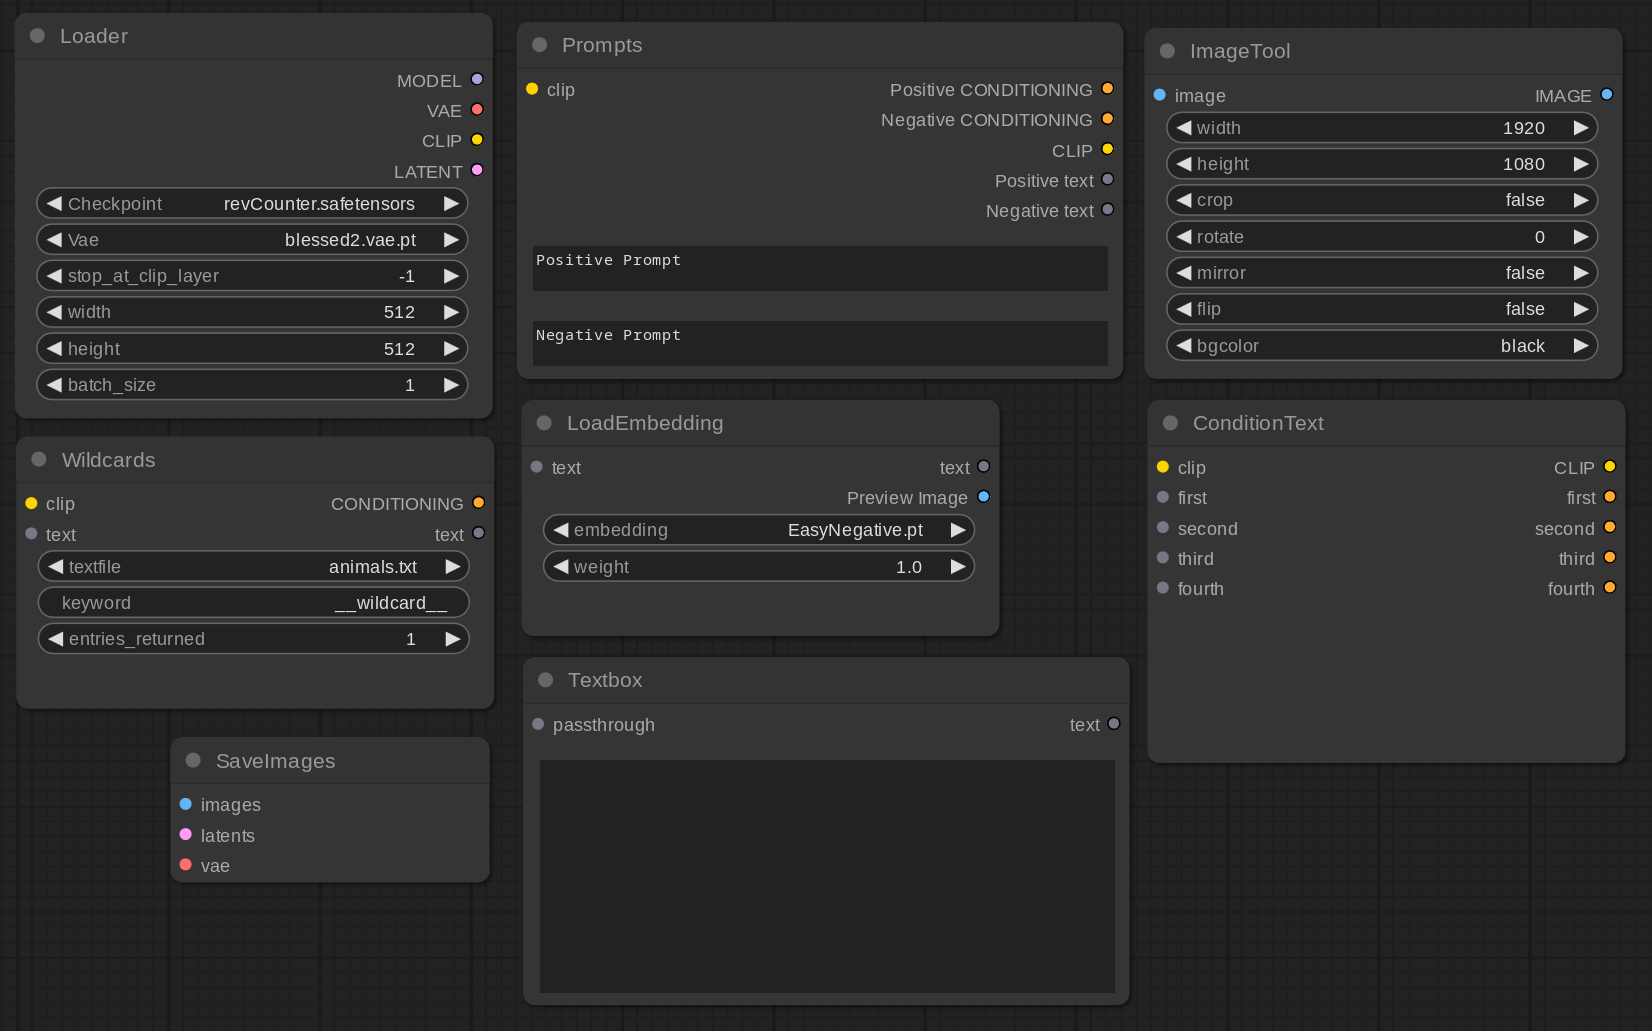
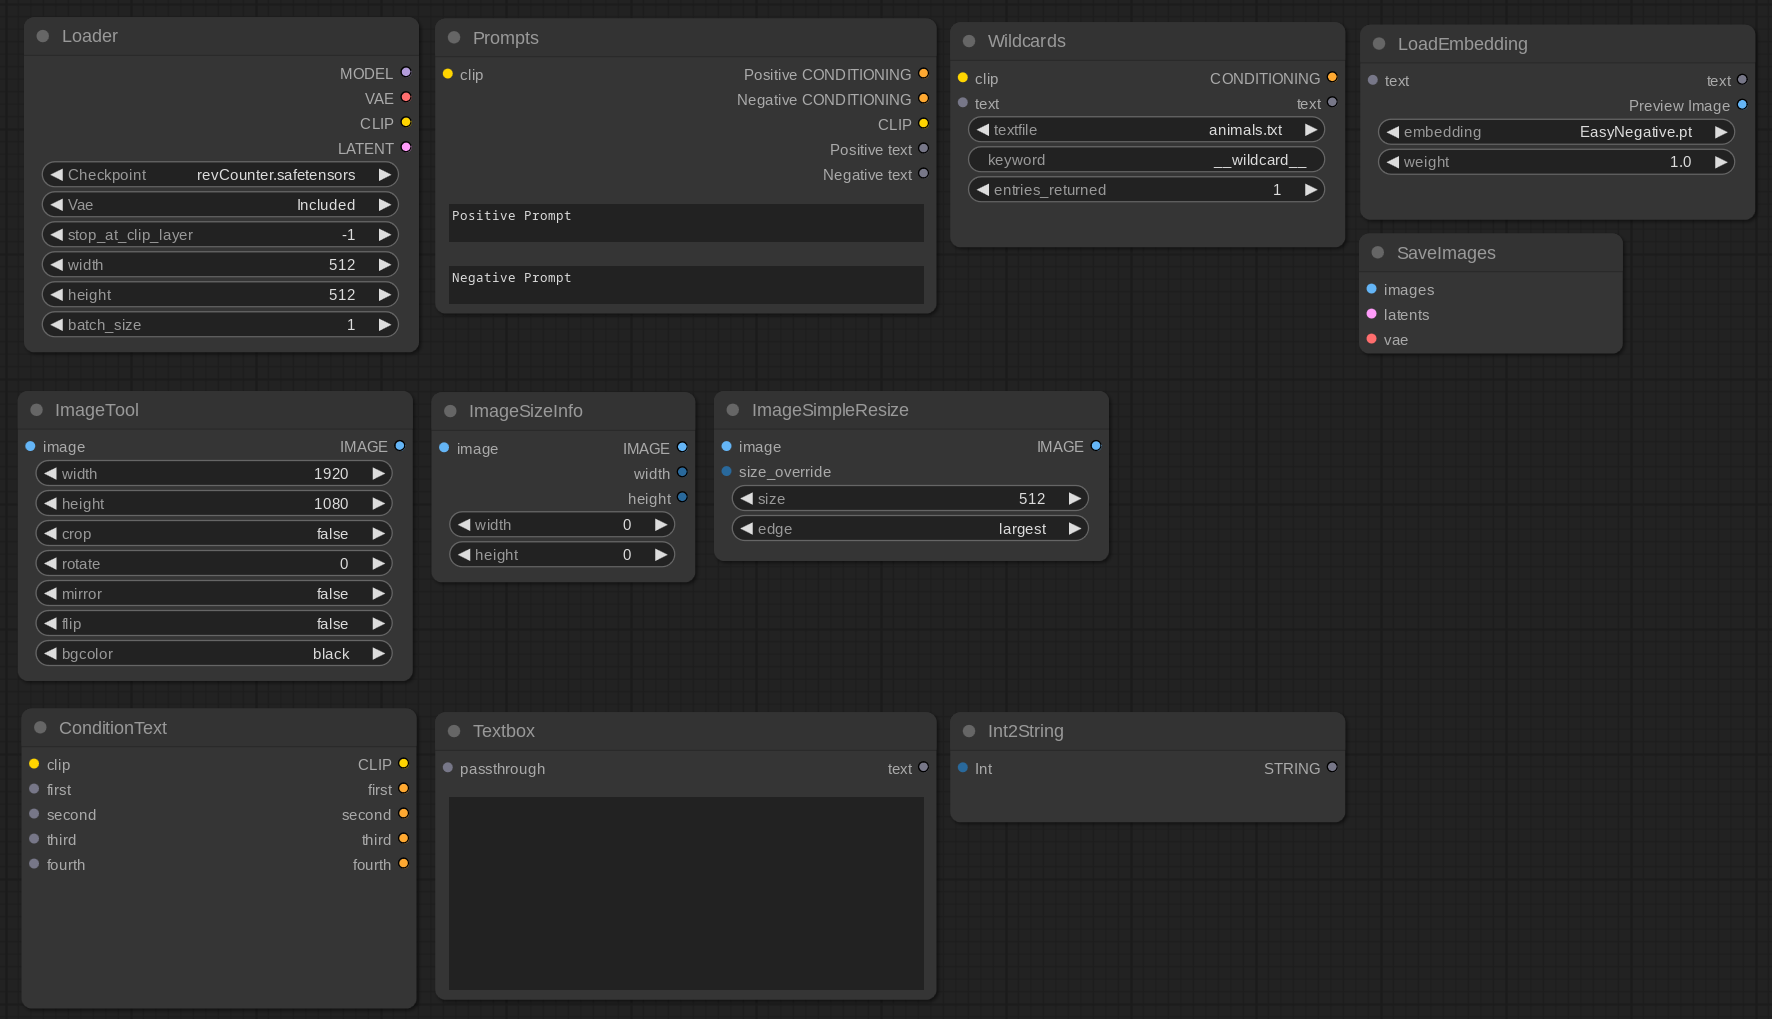
New nodes

diff --git a/js/chibi_nodes.js b/js/chibi_nodes.js
@@ -25,5 +25,34 @@ app.registerExtension({
         this.onResize?.(this.size);
       };
     }
+    if (nodeData.name === "ImageSizeInfo") {
+      const onNodeCreated = nodeType.prototype.onNodeCreated;
+      nodeType.prototype.onNodeCreated = function () {
+        const r = onNodeCreated?.apply(this, arguments);
+        const iw = ComfyWidgets["INT"](this, "width", ["INT", {}], app).widget;
+        const ih = ComfyWidgets["INT"](this, "height", ["INT", {}], app).widget;
+        return r;
+      };
+
+      const onExecuted = nodeType.prototype.onExecuted;
+      nodeType.prototype.onExecuted = function (message) {
+        onExecuted?.apply(this, arguments);
+
+        for (const widget of this.widgets) {
+          // console.log(widget.type);
+          // console.log(widget.name);
+          if (widget.name == "width") {
+            console.log(message);
+            widget.value = message.width[0];
+          }
+          if (widget.name == "height") {
+            console.log(message);
+            widget.value = message.height[0];
+          }
+        }
+
+        this.onResize?.(this.size);
+      };
+    }
   },
 });

diff --git a/chibi_nodes.py b/chibi_nodes.py
@@ -122,11 +122,16 @@ class ImageTool:
 
     RETURN_TYPES = ("IMAGE",)
     FUNCTION = "imagetools"
-    CATEGORY = "Chibi-Nodes"
+    CATEGORY = "Chibi-Nodes/Image"
 
     def imagetools(self, image, height, width, crop, rotate, mirror, flip, bgcolor):
         image = Image.fromarray(np.clip(255. * image[0].cpu().numpy(),0,255).astype(np.uint8))
         image = image.rotate(rotate,fillcolor=bgcolor)
+
+        #black and white
+        #corrections?
+        #generate mask from background color (crop, rotate)
+
         if mirror:
             image = ImageOps.mirror(image)
         
@@ -142,7 +147,7 @@ class ImageTool:
             image = image.crop((left, top, right, bottom))            
             
         else:
-            image = image.resize((width,height), Image.Resampling.LANCZOS)
+            image = image.resize((width,height), Image.LANCZOS)
 
         image = ImageOps.exif_transpose(image)
         image = image.convert("RGB")
@@ -286,7 +291,7 @@ class ConditionText:
     RETURN_TYPES = ("CLIP","CONDITIONING","CONDITIONING","CONDITIONING","CONDITIONING",)
     RETURN_NAMES = ("CLIP","first","second","third","fourth",)
     FUNCTION = "conditiontext"
-    CATEGORY = "Chibi-Nodes"
+    CATEGORY = "Chibi-Nodes/Text"
 
     def conditiontext(self, clip, first='', second='', third='', fourth='', ):
         emptystring = ""
@@ -433,7 +438,7 @@ class Textbox:
     RETURN_NAMES = ("text",)
     OUTPUT_NODE = True
     FUNCTION = "textbox"
-    CATEGORY = "Chibi-Nodes"
+    CATEGORY = "Chibi-Nodes/Text"
 
     def textbox(self,text="",passthrough=""):
         if passthrough != "":
@@ -442,7 +447,132 @@ class Textbox:
         else:
             return (text,)
 
+class ImageSizeInfo:
+    def __init__(self):
+        pass
 
+    @classmethod
+    def INPUT_TYPES(s):
+        return {
+            "required":{
+                "image": ("IMAGE",)
+            },
+            "hidden":{
+                "width": ("INT",),
+                "height": ("INT",),
+            }}
+    RETURN_TYPES = ("IMAGE","INT","INT",)
+    RETURN_NAMES = ("IMAGE","width","height",)
+    OUTPUT_NODE = True
+    FUNCTION = "imagesizeinfo"
+    CATEGORY = "Chibi-Nodes/Image"
+
+    def imagesizeinfo(self, image, width=0, height=0):
+        shape = image.shape
+        width = shape[2]
+        height = shape[1]
+        return {"ui": {"width": [width], "height": [height]},"result": (image,width,height,)}
+
+
+class ImageSimpleResize:
+    def __init__(self):
+        pass
+
+    @classmethod
+    def INPUT_TYPES(s):
+        return {
+            "required":{
+                "image": ("IMAGE",),
+                "size": ("INT", {"default": 512, "min": 16, "max": MAX_RESOLUTION, "step": 1}),
+                "edge":(["largest","smallest","all","width","height"],),
+            },
+            "optional":{
+                "size_override":("INT",{"forceInput": True})
+            }}
+    RETURN_TYPES = ("IMAGE",)
+    OUTPUT_NODE = False
+    FUNCTION = "imagesimpleresize"
+    CATEGORY = "Chibi-Nodes/Image"
+
+    def imagesimpleresize(self, image, size, edge, size_override=None):
+        if size_override:
+            size = size_override
+
+        width = image.shape[2]
+        height = image.shape[1]
+        ratio = height / width
+        image = Image.fromarray(np.clip(255. * image[0].cpu().numpy(),0,255).astype(np.uint8))
+
+        if edge == "largest":
+            if width > height:
+                if size < width:
+                    image = ImageOps.contain(image, (size,MAX_RESOLUTION), Image.LANCZOS)
+                else:
+                    image = image.resize((round(size),round(size*ratio)), Image.LANCZOS)
+            if width < height:
+                if size < height:
+                    image = ImageOps.contain(image, (MAX_RESOLUTION,size), Image.LANCZOS)
+                else:
+                    image = image.resize((round(size/ratio),round(size)), Image.LANCZOS)
+            if width == height:
+                if size < width:
+                    image = ImageOps.contain(image, (size,size), Image.LANCZOS)
+                else:
+                    image = image.resize((round(size),round(size)), Image.LANCZOS)
+
+
+        if edge == "smallest":
+            if width > height:
+                if size < height:
+                    image = ImageOps.contain(image, (MAX_RESOLUTION,size), Image.LANCZOS)
+                else:
+                    image = image.resize((round(size/ratio),round(size)), Image.LANCZOS)
+            if width < height:
+                if size < width:
+                    image = ImageOps.contain(image, (MAX_RESOLUTION,size), Image.LANCZOS)
+                else:
+                    image = image.resize((round(size),round(size*ratio)), Image.LANCZOS)
+            if width == height:
+                if size < width:
+                    image = ImageOps.contain(image, (size,size), Image.LANCZOS)
+                else:
+                    image = image.resize((round(size),round(size)), Image.LANCZOS)
+
+        if edge == "all":
+            image = image.resize((round(size),round(size)), Image.LANCZOS)
+
+        if edge == "width":
+            image = image.resize((round(size),round(height)), Image.LANCZOS)
+
+        if edge == "height":
+            image = image.resize((round(width),round(size)), Image.LANCZOS)
+
+
+        image = ImageOps.exif_transpose(image)
+        image = image.convert("RGB")
+        image = np.array(image).astype(np.float32) / 255.0
+        image = torch.from_numpy(image)[None,]
+        
+        return(image,)
+    
+class Int2String:
+    def __init__(self):
+        pass
+
+    @classmethod
+    def INPUT_TYPES(s):
+        return {
+            "required":{
+                "Int":("INT",{"forceInput": True})
+            },}
+    RETURN_TYPES = ("STRING",)
+    OUTPUT_NODE = False
+    FUNCTION = "int2string"
+    CATEGORY = "Chibi-Nodes/Text"
+
+    def int2string(self, Int):
+        print(Int)
+        return(str(Int),)
 
 
 NODE_CLASS_MAPPINGS = {
@@ -454,5 +584,8 @@ NODE_CLASS_MAPPINGS = {
     "ConditionText": ConditionText, 
     "SaveImages":SaveImages,
     "Textbox":Textbox,
+    "ImageSizeInfo" : ImageSizeInfo,
+    "ImageSimpleResize" : ImageSimpleResize,
+    "Int2String": Int2String,
 
 }

diff --git a/README.md b/README.md
@@ -14,45 +14,61 @@ Be aware, These are all very experimental right now so may have some bugs or iss
 
 A more comprehensive Checkpoint, Vae loader with afew other features such as clip skip value selector and initial empty latent image generation
 
-
 ### Prompts
 
 Combined Positive and Negative Prompts, Just to save some room.
-
 
 ### ImageTool (wip)
 
 Uses PIL for some simple image manipulation. Won't do batch images yet, work in progress.
 
-
 ### Wildcards
 
-replaces a keyword from input text if given with a random line from a text file, if no input is given it will output just the random line
+Replaces a keyword from input text if given with a random line from a text file, if no input is given it will output just the random line
 
-can now return multiple random lines from the same file if desired, but be aware you can get doubles
+Can now return multiple random lines from the same file if desired, but be aware you can get doubles
 
 wildcards files (some of which i've included which also need some more work) are stored under the extras/chibi-wildcards directory.
-
 
 ### LoadEmbedding
 
 Appends the embedding text to the end of the input text ", (embedding:filename.pt:weight) "
 
-
 ### ConditionText
 
 4 in 4 out, text to conditioning.
 
-
 ### SaveImages (wip)
 
-VaeDecode and SaveImage mixed together. saves to the normal output directory but uses a unix time stamp as the filename eg. 1698462650_001_.png
-
+VaeDecode and SaveImage mixed together. saves to the normal output directory but uses a unix time stamp as the filename eg. 1698462650*001*.png
 
 ### Textbox
 
-A simple text box, if passthrough text is supplied it will update the textbox contents and also send it forward. 
+A simple text box, if passthrough text is supplied it will update the textbox contents and also send it forward.
 
+    "ImageSizeInfo" : ImageSizeInfo,
+    "ImageSimpleResize" : ImageSimpleResize,
+    "Int2String": Int2String,
+
+### ImageSizeInfo
+
+Displays the resolution of the input image, and sends it along as well as two int values for the dimensions.
+
+### ImageSimpleResize
+
+A quick way to make a large image into a size your GPU can handle.
+
+largest sets the biggest dimension to the set size and keeps your aspect ratio
+
+smallest sets the lowest dimension to the set size and keeps your aspect ratio
+
+all sets all dimensions to the set size
+
+height and width only sets the one you pick.
+
+### Int2String
+
+Takes a number, gives you a text string, for debugging i guess.
 
 ## Installation
 
